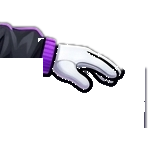
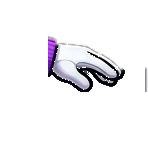
Corrige rig do mascote: remove artefatos de recorte, junta braco+ombro sem costura visivel

Changed region(s): [[0.0, 0.1351, 0.3243, 0.5405], [0.973, 0.6216, 1.0, 0.8649], [0.5405, 0.6216, 0.5946, 0.6486]]

diff --git a/index.html b/index.html
@@ -1598,7 +1598,7 @@
      mesmo esqueleto de classes de sempre (x-rig/x-armL/x-armR/x-legL/x-legR/
      x-lowerLegR/x-speed) pra reaproveitar todas as cenas de interacao ja
      prontas sem mexer no JS. */
-  .mascot-xiao svg{ width:78px; height:91px; overflow:visible; }
+  .mascot-xiao svg{ width:100px; height:82px; overflow:visible; }
   .mascot-xiao image{ pointer-events:none; }
   /* Rig real por partes: cabeca+tronco (estatico) mais 4 membros
      recortados da propria arte do sheet (proporcoes reais, nao desenhadas),
@@ -1611,12 +1611,12 @@
      balanca em cima desse repouso, nao do zero. */
   .mascot-xiao.idle .mascot-fxwrap{ animation: iamtBreathe 2.6s ease-in-out infinite; }
   @keyframes iamtBreathe{ 0%,100%{ transform: translateY(0) scale(1);} 50%{ transform: translateY(-1.5px) scale(1.012);} }
-  .mascot-xiao .x-rig{ transform-origin: 252px 150px; }
-  .mascot-xiao .x-armL{ transform-origin: 125px 115px; transform: rotate(-88deg); }
-  .mascot-xiao .x-armR{ transform-origin: 380px 115px; transform: rotate(88deg); }
-  .mascot-xiao .x-legL{ transform-origin: 222px 208px; }
-  .mascot-xiao .x-legR{ transform-origin: 280px 208px; }
-  .mascot-xiao .x-cape{ transform-origin: 285px 135px; }
+  .mascot-xiao .x-rig{ transform-origin: 253px 160px; }
+  .mascot-xiao .x-armL{ transform-origin: 125px 115px; transform: rotate(-45deg); }
+  .mascot-xiao .x-armR{ transform-origin: 380px 115px; transform: rotate(45deg); }
+  .mascot-xiao .x-legL{ transform-origin: 222px 215px; }
+  .mascot-xiao .x-legR{ transform-origin: 280px 215px; }
+  .mascot-xiao .x-cape{ transform-origin: 255px 145px; }
   .mascot-xiao .x-speed{ opacity:0; }
   /* Ciclo de caminhada real (substitui o antigo voo reto em T-pose): braco
      e perna de lados opostos avancam juntos (marcha contralateral humana de
@@ -1641,25 +1641,25 @@
     100%{ transform: translateY(0) rotate(0deg); }
   }
   @keyframes xWalkLeg{
-    0%{ transform: rotate(-25deg); }
-    25%{ transform: rotate(-4deg); }
-    50%{ transform: rotate(25deg); }
-    75%{ transform: rotate(-4deg); }
-    100%{ transform: rotate(-25deg); }
+    0%{ transform: rotate(-16deg); }
+    25%{ transform: rotate(0deg); }
+    50%{ transform: rotate(16deg); }
+    75%{ transform: rotate(0deg); }
+    100%{ transform: rotate(-16deg); }
   }
   @keyframes xWalkArmL{
-    0%{ transform: rotate(-64deg); }
-    25%{ transform: rotate(-84deg); }
-    50%{ transform: rotate(-111deg); }
-    75%{ transform: rotate(-84deg); }
-    100%{ transform: rotate(-64deg); }
+    0%{ transform: rotate(-60deg); }
+    25%{ transform: rotate(-45deg); }
+    50%{ transform: rotate(-30deg); }
+    75%{ transform: rotate(-45deg); }
+    100%{ transform: rotate(-60deg); }
   }
   @keyframes xWalkArmR{
-    0%{ transform: rotate(64deg); }
-    25%{ transform: rotate(84deg); }
-    50%{ transform: rotate(111deg); }
-    75%{ transform: rotate(84deg); }
-    100%{ transform: rotate(64deg); }
+    0%{ transform: rotate(30deg); }
+    25%{ transform: rotate(45deg); }
+    50%{ transform: rotate(60deg); }
+    75%{ transform: rotate(45deg); }
+    100%{ transform: rotate(30deg); }
   }
   /* --bank (agora bem mais sutil pro xiao, ver moverArco) da so uma leve
      inclinacao real de quem esta correndo/subindo -- a espada nas costas
@@ -1669,8 +1669,8 @@
   @keyframes xWalkCape{ 0%,100%{ transform: rotate(var(--bank,0deg)) translateY(0);} 50%{ transform: rotate(var(--bank,0deg)) translateY(2px);} }
   .mascot-xiao.idle .x-armL{ animation: xIdleArmL 2.6s ease-in-out infinite; }
   .mascot-xiao.idle .x-armR{ animation: xIdleArmR 2.6s ease-in-out infinite; }
-  @keyframes xIdleArmL{ 0%,100%{ transform: rotate(-88deg);} 50%{ transform: rotate(-83deg);} }
-  @keyframes xIdleArmR{ 0%,100%{ transform: rotate(88deg);} 50%{ transform: rotate(83deg);} }
+  @keyframes xIdleArmL{ 0%,100%{ transform: rotate(-45deg);} 50%{ transform: rotate(-41deg);} }
+  @keyframes xIdleArmR{ 0%,100%{ transform: rotate(45deg);} 50%{ transform: rotate(41deg);} }
   @keyframes fxImpulso{ 0%{ transform: scaleY(1) scaleX(1);} 55%{ transform: scaleY(0.82) scaleX(1.14);} 100%{ transform: scaleY(1) scaleX(1);} }
   .mascot.impulso .mascot-fxwrap{ animation: fxImpulso .13s ease-out; }
   /* Segurar o mascote com o mouse: cursor de "agarrado" + um leve
@@ -1689,8 +1689,8 @@
   .mascot-xiao.kicking .x-rig{ animation: xkLean 1.1s ease-in-out; }
   .mascot-xiao.kicking .x-speed{ animation: xkSpeed 1.1s ease-in-out; }
   @keyframes xkLean{ 0%,20%,100%{ transform: translateY(0);} 50%{ transform: translateY(-11px);} 75%{ transform: translateY(0);} }
-  @keyframes xkArmL{ 0%,20%,100%{ transform: rotate(-88deg);} 50%{ transform: rotate(-55deg);} 75%{ transform: rotate(-88deg);} }
-  @keyframes xkArmR{ 0%,20%,100%{ transform: rotate(88deg);} 50%{ transform: rotate(12deg);} 75%{ transform: rotate(88deg);} }
+  @keyframes xkArmL{ 0%,20%,100%{ transform: rotate(-45deg);} 50%{ transform: rotate(-35deg);} 75%{ transform: rotate(-45deg);} }
+  @keyframes xkArmR{ 0%,20%,100%{ transform: rotate(45deg);} 50%{ transform: rotate(15deg);} 75%{ transform: rotate(45deg);} }
   @keyframes xkLegL{ 0%,20%,100%{ transform: translateY(0);} 50%{ transform: translateY(-9px);} 75%{ transform: translateY(0);} }
   @keyframes xkLegR{ 0%,20%,100%{ transform: translateY(0);} 50%{ transform: translateY(-9px);} 75%{ transform: translateY(0);} }
   @keyframes xkLowerLegR{ 0%,20%,100%{ transform: rotate(0deg);} 50%{ transform: rotate(26deg);} 75%{ transform: rotate(0deg);} }
@@ -2050,7 +2050,7 @@
 
   @media (max-width: 600px){
     .mascot-ghost svg{ width:56px; height:64px; }
-    .mascot-xiao svg{ width:40px; height:47px; }
+    .mascot-xiao svg{ width:55px; height:45px; }
   }
 
   /* ===== Interacoes entre mascotes (perseguicao, briga, portal, buraco
@@ -2118,7 +2118,7 @@
      de verdade e "destruicao" cosmetica, 100% reversivel -- nada de dados
      apagados, so um efeito visual temporario no card). ===== */
   .mascot-xiao.carregando .x-armR{ animation: xCarregarBraco .7s ease-in-out infinite alternate; }
-  @keyframes xCarregarBraco{ 0%{ transform: rotate(88deg);} 100%{ transform: rotate(48deg);} }
+  @keyframes xCarregarBraco{ 0%{ transform: rotate(45deg);} 100%{ transform: rotate(18deg);} }
   .fx-carga{
     width:14px; height:14px; border-radius:50%;
     background: radial-gradient(circle, #fff, #ffd23d 55%, transparent 75%);
@@ -6649,14 +6649,14 @@ idiomaBtn.addEventListener('click', function(){
   // do recorte original (505x374) -- entao body/armL/armR/legL/legR se
   // encaixam sem costura visivel na pose de repouso, e cada <g> pivota no
   // proprio eixo (ombro/quadril) marcado no CSS (.mascot-xiao .x-armL etc).
-  var XIAO_SVG = '<svg viewBox="85 -5 330 385" xmlns="http://www.w3.org/2000/svg">' +
+  var XIAO_SVG = '<svg viewBox="20 -5 470 385" xmlns="http://www.w3.org/2000/svg">' +
       '<g class="x-rig">' +
-        '<g class="x-cape"><image href="rig_sword.png" x="190" y="55" width="190" height="160"></image></g>' +
+        '<g class="x-cape"><image href="rig_sword.png" x="170" y="72" width="175" height="150"></image></g>' +
         '<g class="x-legL"><image href="rig_legL.png" x="138" y="205" width="114" height="169"></image></g>' +
         '<g class="x-legR"><image href="rig_legR.png" x="250" y="205" width="114" height="169"></image></g>' +
-        '<image href="rig_body.png" x="128" y="0" width="250" height="220"></image>' +
         '<g class="x-armL"><image href="rig_armL.png" x="0" y="92" width="148" height="148"></image></g>' +
         '<g class="x-armR"><image href="rig_armR.png" x="357" y="92" width="148" height="148"></image></g>' +
+        '<image href="rig_body.png" x="128" y="0" width="250" height="232"></image>' +
         '<g class="x-speed"></g>' +
       '</g>' +
     '</svg>';
